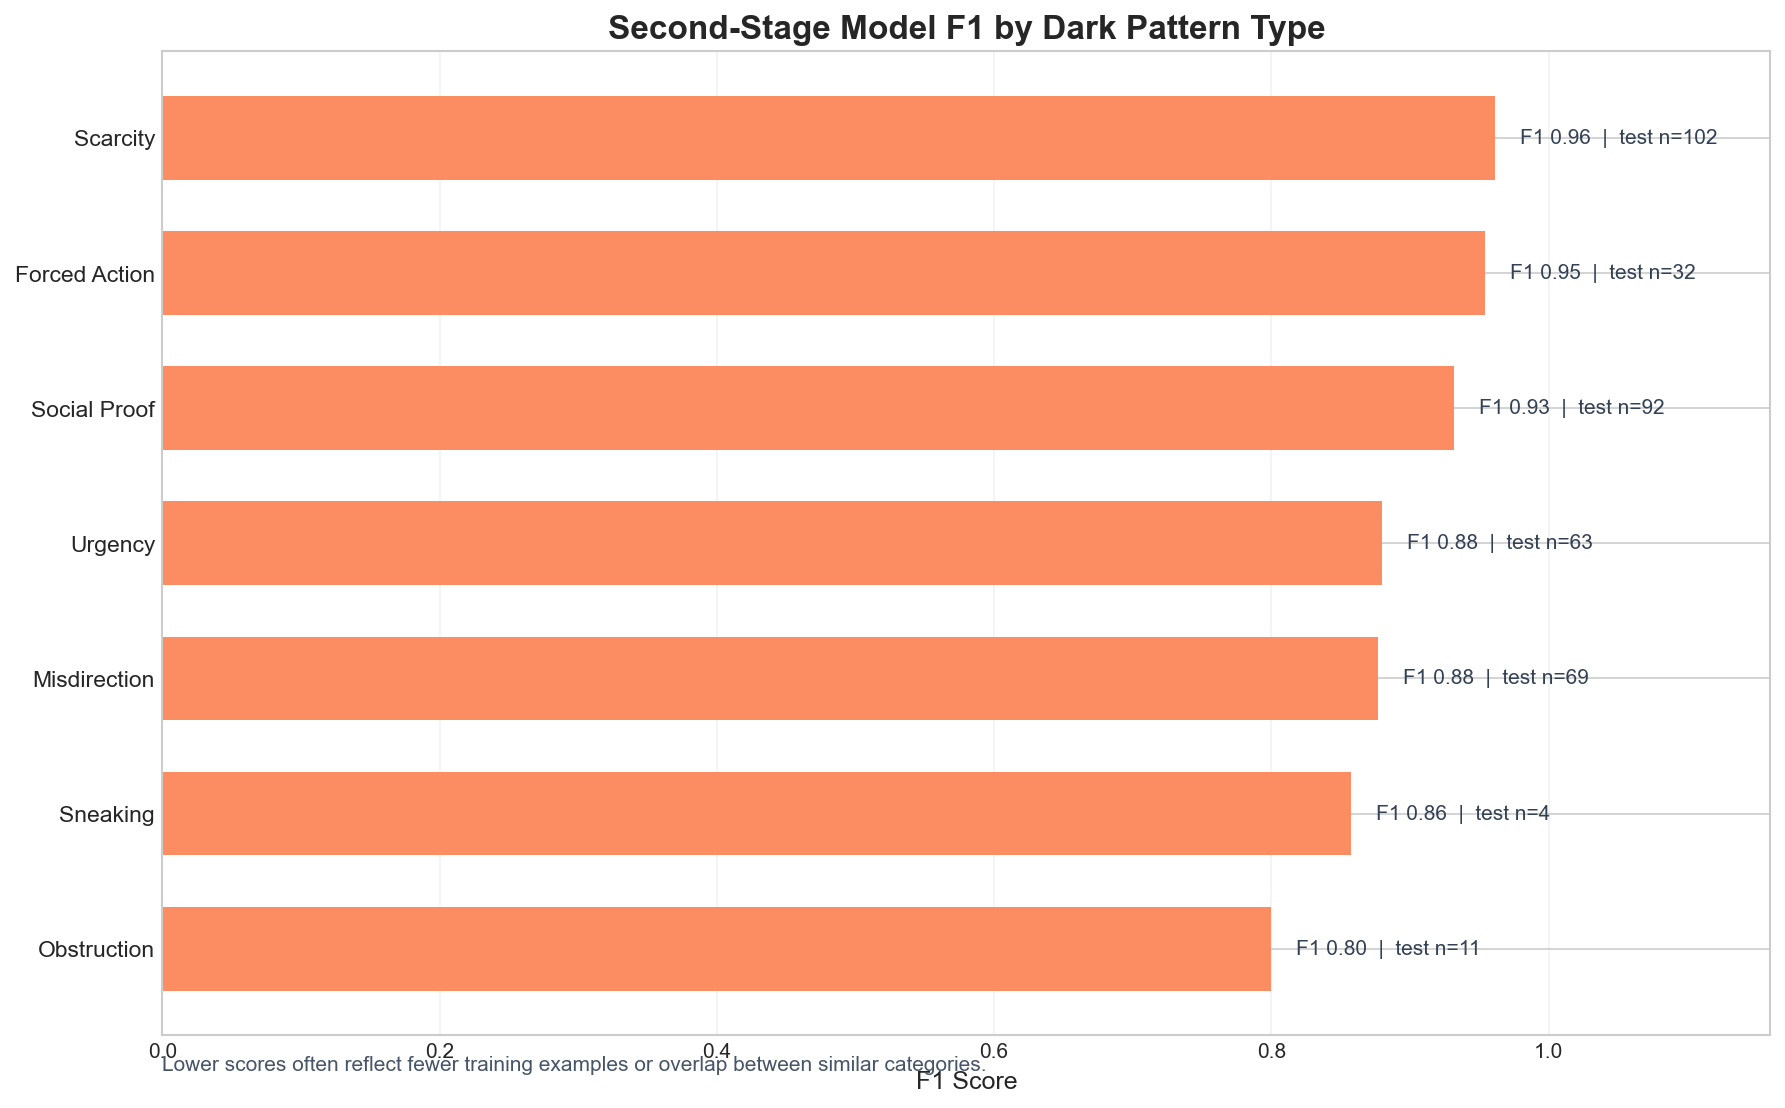
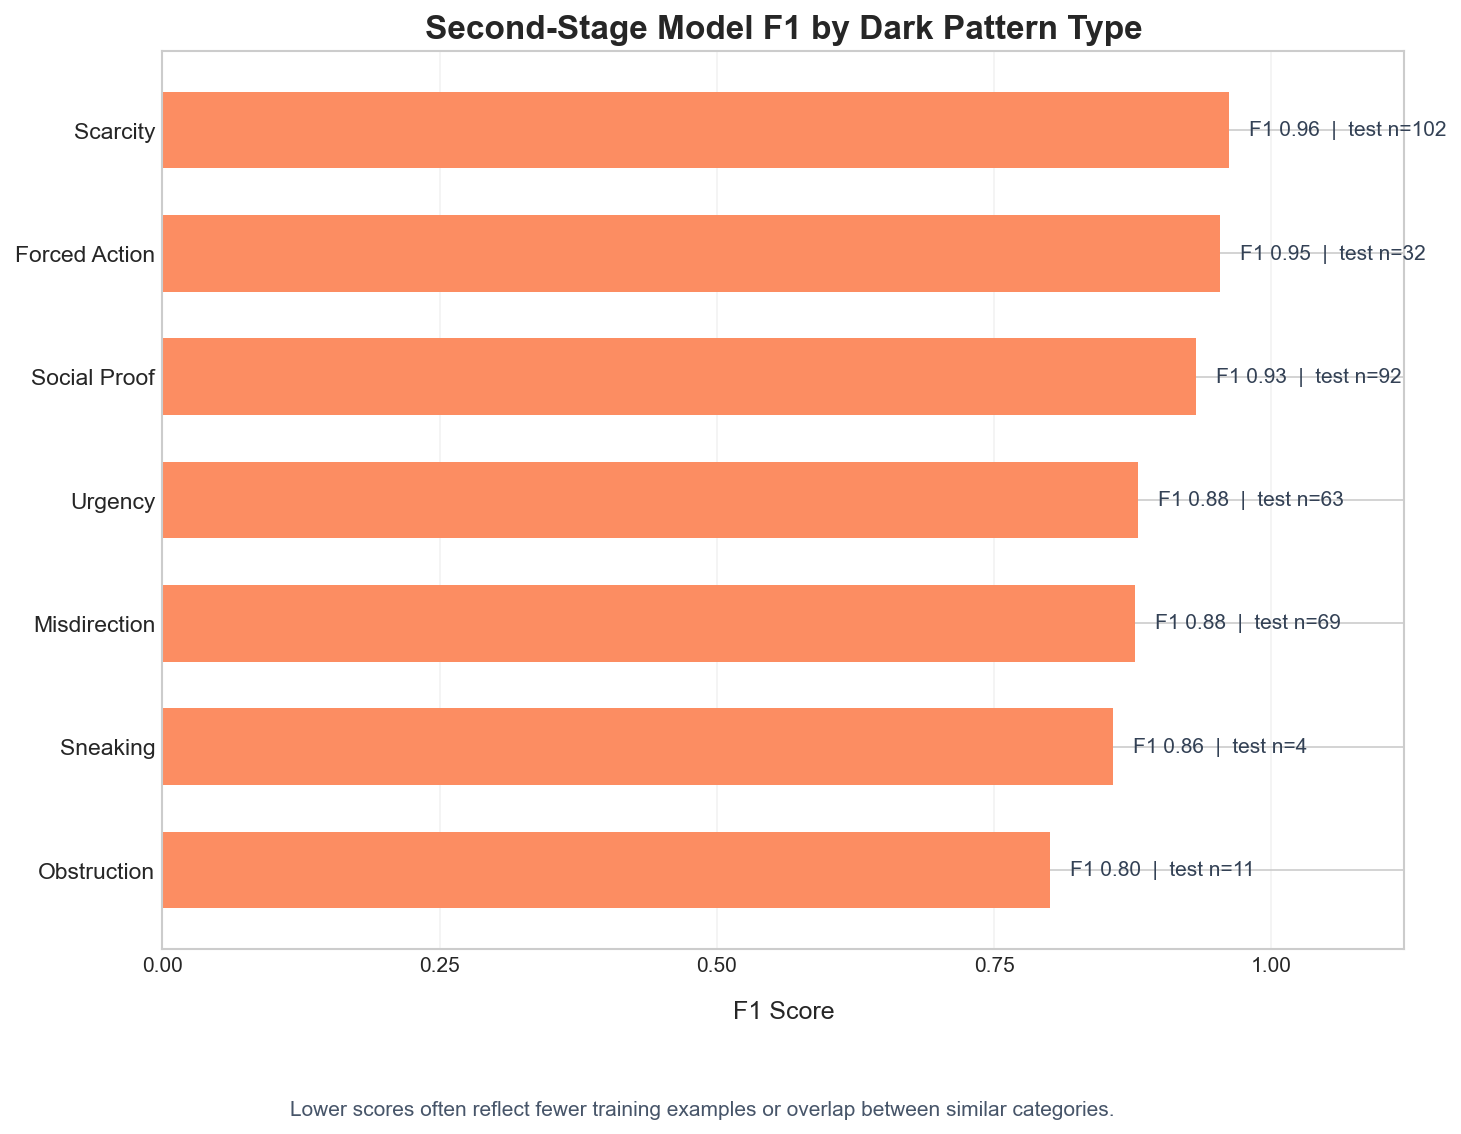
Improve category F1 visualization spacing

diff --git a/scripts/generate_visualizations.py b/scripts/generate_visualizations.py
@@ -289,7 +289,7 @@ def plot_category_per_class_f1() -> None:
         }
     ).sort_values("f1")
 
-    fig, ax = plt.subplots(figsize=(12, 7.5))
+    fig, ax = plt.subplots(figsize=(12, 8.2))
     bars = ax.barh(scores["category"], scores["f1"], color=PALETTE[1], height=0.62)
     for bar, val, count in zip(bars, scores["f1"], scores["support"]):
         x_pos = min(val + 0.018, 1.01)
@@ -301,22 +301,24 @@ def plot_category_per_class_f1() -> None:
             fontsize=10,
             color="#334155",
         )
-    ax.set_xlim(0, 1.16)
-    ax.set_xlabel("F1 Score", fontsize=12)
+    ax.set_xlim(0, 1.12)
+    ax.set_xticks([0, 0.25, 0.50, 0.75, 1.00])
+    ax.set_xlabel("F1 Score", fontsize=12, labelpad=12)
     ax.set_ylabel("")
     ax.tick_params(axis="y", labelsize=11)
     ax.tick_params(axis="x", labelsize=10)
     ax.grid(axis="x", alpha=0.25)
     ax.set_title("Second-Stage Model F1 by Dark Pattern Type", fontsize=16, fontweight="bold")
-    ax.text(
-        0,
-        -0.9,
+    fig.text(
+        0.54,
+        0.035,
         "Lower scores often reflect fewer training examples or overlap between similar categories.",
+        ha="center",
         fontsize=10,
         color="#475569",
     )
 
-    plt.tight_layout()
+    fig.subplots_adjust(left=0.24, right=0.93, top=0.90, bottom=0.17)
     save_figure(fig, "category_per_class_f1.png")
     plt.close(fig)
     print("  Saved category_per_class_f1.png")